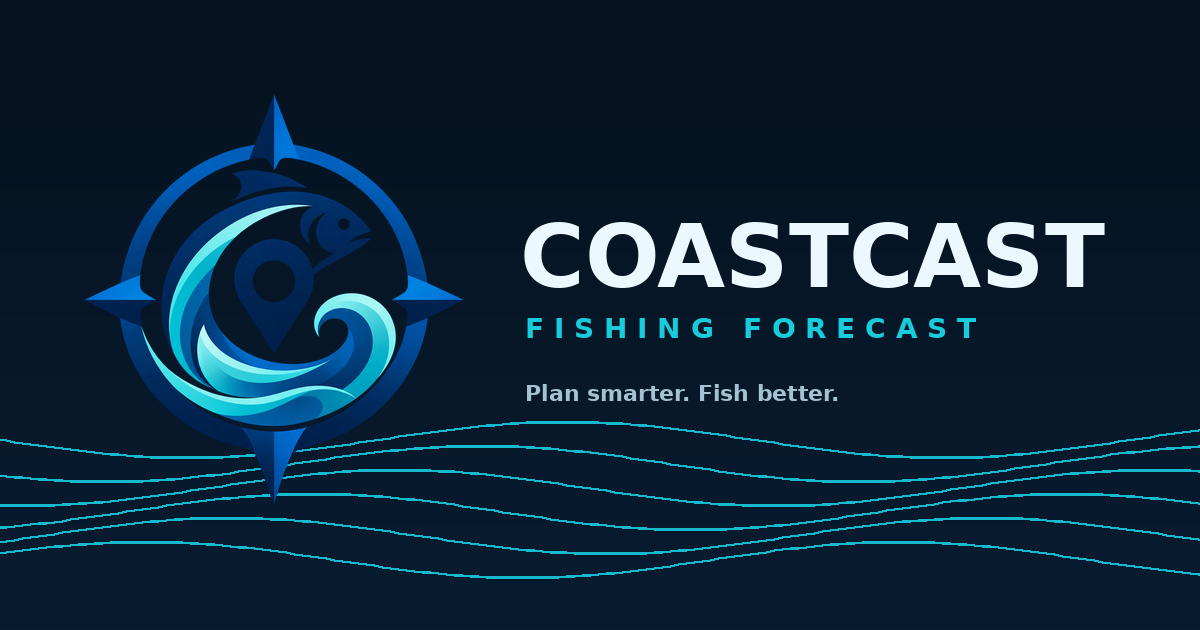
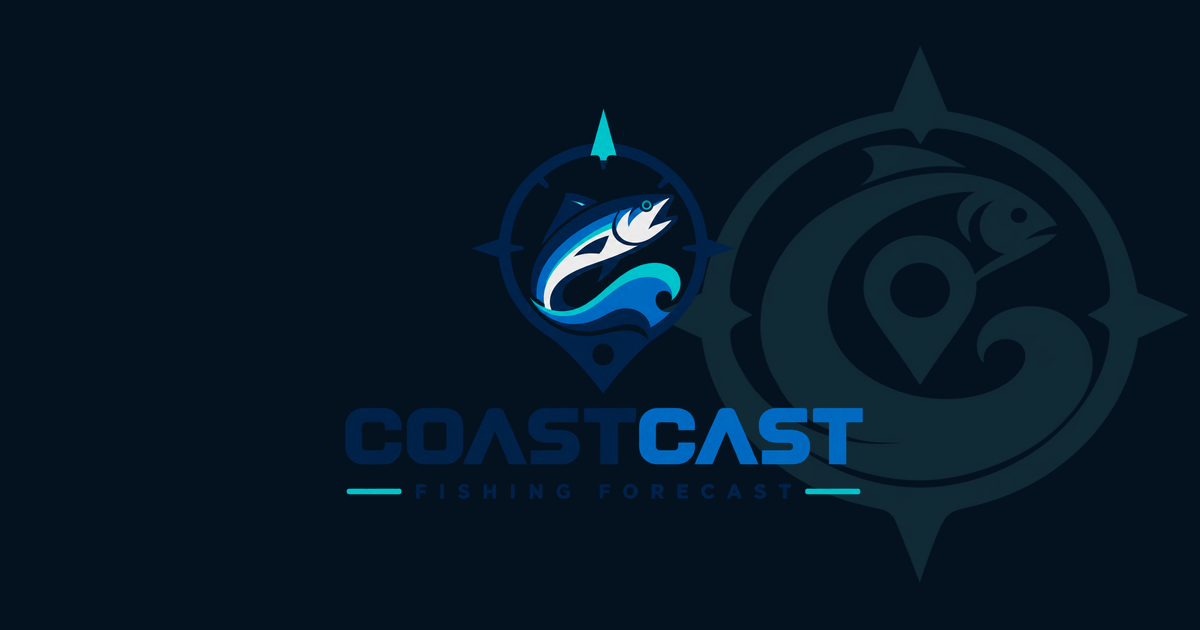
Add files via upload

diff --git a/app.js b/app.js
@@ -261,7 +261,7 @@
 
     restore(){
       try{
-        const raw=localStorage.getItem('coastcast-v21-state')||localStorage.getItem('coastcast-v20-state')||localStorage.getItem('coastcast-v18-state')||localStorage.getItem('coastcast-v17-state')||localStorage.getItem('coastcast-v16-state')||localStorage.getItem('coastcast-v15-state')||localStorage.getItem('coastcast-v14-state')||localStorage.getItem('coastcast-v13-state')||localStorage.getItem('coastcast-v12-state')||localStorage.getItem('coastcast-v11-state')||localStorage.getItem('coastcast-v10-state')||localStorage.getItem('coastcast-v9-state')||localStorage.getItem('coastcast-v8-state')||localStorage.getItem('coastcast-v7-state')||localStorage.getItem('coastcast-v6-state')||localStorage.getItem('coastcast-v5-state')||localStorage.getItem('coastcast-v4-state')||localStorage.getItem('coastcast-v3-state')||localStorage.getItem('coastcast-state-v1');
+        const raw=localStorage.getItem('coastcast-v22-state')||localStorage.getItem('coastcast-v21-state')||localStorage.getItem('coastcast-v20-state')||localStorage.getItem('coastcast-v18-state')||localStorage.getItem('coastcast-v17-state')||localStorage.getItem('coastcast-v16-state')||localStorage.getItem('coastcast-v15-state')||localStorage.getItem('coastcast-v14-state')||localStorage.getItem('coastcast-v13-state')||localStorage.getItem('coastcast-v12-state')||localStorage.getItem('coastcast-v11-state')||localStorage.getItem('coastcast-v10-state')||localStorage.getItem('coastcast-v9-state')||localStorage.getItem('coastcast-v8-state')||localStorage.getItem('coastcast-v7-state')||localStorage.getItem('coastcast-v6-state')||localStorage.getItem('coastcast-v5-state')||localStorage.getItem('coastcast-v4-state')||localStorage.getItem('coastcast-v3-state')||localStorage.getItem('coastcast-state-v1');
         if(!raw) return;
         const saved=JSON.parse(raw);
         if(saved.location) this.state.location=saved.location;
@@ -311,7 +311,7 @@
         community:this.state.community,
         command:this.state.command,liveUpdatedAt:this.state.liveUpdatedAt
       };
-      try{ localStorage.setItem('coastcast-v21-state',JSON.stringify(payload)); }catch(_){ }
+      try{ localStorage.setItem('coastcast-v22-state',JSON.stringify(payload)); }catch(_){ }
       if(this.state.cloud?.autoSync&&this.cloudSignedIn()) this.queueCloudSync();
     },
 
@@ -340,6 +340,8 @@
       this.$('profileBtn')?.addEventListener('click',()=>this.navigate('profile'));
       this.$('destinationScanBtn')?.addEventListener('click',()=>{this.navigate('map');setTimeout(()=>this.loadMapPlaces(true),180);});
       this.$('destinationTackleBtn')?.addEventListener('click',()=>{this.navigate('map');setTimeout(()=>this.loadNearbyShops(true),180);});
+      this.$('dailyBriefForecastBtn')?.addEventListener('click',()=>this.navigate('forecast'));
+      this.$('dailyBriefTripBtn')?.addEventListener('click',()=>this.buildCommandPlan({navigateToTrips:true}));
       this.$('syncBtn').addEventListener('click',()=>this.state.live?this.loadLiveData():this.showToast('Turn on Live Data to refresh internet forecasts.'));
       this.$('liveModeBtn').addEventListener('click',()=>{const s=this.overallDataStatus();if(this.state.live&&s!=='live')this.loadLiveData();else this.setLiveMode(!this.state.live);});
       this.$('liveModeToggle').addEventListener('change',e=>this.setLiveMode(e.target.checked));
@@ -1233,10 +1235,32 @@
 
     renderAll(){
       this.recalculateScores();
-      this.renderMode();this.renderSourceHealth();this.renderLocation();this.renderDestinationHub();this.renderScore();this.renderSpecies();this.renderSpeciesRankings();this.renderBaitIntelligence();this.renderRegulations();this.renderConditions();this.renderFactors();this.renderOceanIntelligence();this.renderBeachReadiness();
+      this.renderMode();this.renderSourceHealth();this.renderLocation();this.renderDestinationHub();this.renderDailyBrief();this.renderScore();this.renderSpecies();this.renderSpeciesRankings();this.renderBaitIntelligence();this.renderRegulations();this.renderConditions();this.renderFactors();this.renderOceanIntelligence();this.renderBeachReadiness();
       this.renderTides();this.renderHourly();this.renderDays();this.renderShops();this.renderForecast();this.renderCatchTimeline();this.renderTideWeek();this.renderChecklist();this.renderWaypoints();this.renderLogbook();this.renderCommunity();this.renderSpotIntelligence();
       this.evaluateAlerts({notify:true});this.renderTrips();this.renderSmartDeparture();this.renderHomeAlerts();this.renderProfile();this.renderScout();this.renderGoMode();this.renderGearPlanner();this.renderTripSafety();this.renderPatternMatch();this.renderCatchIntelligence();this.renderTackleBox();this.renderOfflinePacks();this.renderPhotoMemories();this.renderCommandCenter();this.renderOpportunityMatrix();this.renderMissionControl();this.renderAnglerAnalytics();
       if(this.state.view==='map') this.renderMapLayers();
+    },
+
+    dailyBriefData(){
+      const d=this.state.data||{},c=d.current||{},today=(d.hours||[]).filter(h=>Number(h.dateIndex||0)===0);
+      let localHour=new Date().getHours();try{const tz=d.timezone;if(tz){const x=new Intl.DateTimeFormat('en-US',{timeZone:tz,hour:'2-digit',hour12:false}).format(new Date());localHour=Number(x)%24;}}catch(_){ }
+      const hourOf=h=>{const m=String(h.rawTime||'').match(/T(\d{2}):/);if(m)return Number(m[1]);const m2=String(h.time||'').match(/^(\d{1,2})(?::\d{2})?\s*(AM|PM)?/i);if(!m2)return-1;let n=Number(m2[1]);if(m2[2]){const ap=m2[2].toUpperCase();if(ap==='PM'&&n<12)n+=12;if(ap==='AM'&&n===12)n=0;}return n;};
+      let upcoming=today.filter(h=>hourOf(h)>=localHour).slice(0,6);if(upcoming.length<3)upcoming=today.slice(0,6);if(!upcoming.length)upcoming=(d.hours||[]).slice(0,6);
+      const scored=upcoming.map(h=>({...h,briefScore:this.calculateScore({wind:h.wind,rain:h.rain,wave:h.wave,water:h.water??c.waterTemp,tide:h.tide,time:h.rawTime||h.time,pressure:h.pressure??c.pressure},this.state.targetSpecies)}));
+      const best=scored.reduce((a,b)=>!a||b.briefScore>a.briefScore?b:a,null),tide=this.tideIntel(),conf=this.dataConfidence(),sun=d.sun||d.days?.[0]||{};
+      let headline='A workable fishing window is developing.';if(best?.briefScore>=90)headline=`Prime ${this.state.targetSpecies} conditions build around ${best.time}.`;else if(best?.briefScore>=82)headline=`Strong ${this.state.targetSpecies} window near ${best.time}.`;else if(best?.briefScore>=70)headline=`Best available ${this.state.targetSpecies} opportunity is near ${best.time}.`;else headline='Conditions are mixed — use the timeline to pick the least-compromised window.';
+      const tideCall=tide.next?`${tide.stage} toward ${tide.next.type.toLowerCase()} water`:(tide.stage||'Tide trend loading');
+      const summary=`${tideCall}. Wind ${this.fmt(c.windSpeed,0)} mph ${this.compass(c.windDir)}, surf ${this.fmt(c.waveHeight,1)} ft @ ${this.fmt(c.wavePeriod,0)} sec, ${this.fmt(c.rain,0)}% rain. ${conf.score}% data confidence.`;
+      return{scored,best,tide,conf,sun,c,headline,summary};
+    },
+
+    renderDailyBrief(){
+      if(!this.$('dailyBriefPanel')||!this.state.data)return;const b=this.dailyBriefData(),best=b.best||{},live=this.overallDataStatus?.()||'demo';
+      this.$('dailyBriefHeadline').textContent=b.headline;this.$('dailyBriefSummary').textContent=b.summary;
+      const badge=this.$('dailyBriefBadge');badge.textContent=live==='live'?'LIVE BRIEF':live==='partial'?'PARTIAL LIVE':this.state.live?'FALLBACK':'DEMO';badge.className=`daily-brief-badge ${live==='live'?'live':live==='partial'?'partial':'demo'}`;
+      this.$('dailyBriefTimeline').innerHTML=b.scored.length?b.scored.map(h=>{const score=Math.round(h.briefScore||0),cls=score>=88?'prime':score>=76?'good':score>=62?'fair':'low';return `<article class="brief-hour ${cls}"><span>${this.escape(h.time||'—')}</span><strong>${score}</strong><small>${this.escape(h.icon||'')} ${this.fmt(h.temp,0)}° • ${this.fmt(h.wind,0)} mph</small><em>${this.fmt(h.wave,1)} ft surf</em></article>`;}).join(''):'<div class="brief-empty">Hourly forecast is not loaded yet.</div>';
+      const next=b.tide?.next;this.$('dailyBriefTide').textContent=next?`${next.type} ${next.time||this.formatDestinationDate(next.date,{hour:'numeric',minute:'2-digit'})}`:(b.tide?.stage||'—');this.$('dailyBriefTideNote').textContent=b.tide?.strength||'Movement';
+      this.$('dailyBriefWater').textContent=Number.isFinite(Number(b.c.waterTemp))?`${this.fmt(b.c.waterTemp,0)}°F`:'—';this.$('dailyBriefSunrise').textContent=b.sun.sunrise||'—';this.$('dailyBriefSunset').textContent=`Sunset ${b.sun.sunset||'—'}`;this.$('dailyBriefConfidence').textContent=`${b.conf.score}%`;
     },
 
     dataConfidence(){
@@ -2655,7 +2679,7 @@
     },
 
     backupPayload(){
-      return {format:'coastcast-backup',version:'2.1.0',exportedAt:new Date().toISOString(),appState:{location:this.state.location,live:this.state.live,radius:this.state.radius,tackleRadius:this.state.tackleRadius,fishingStyle:this.state.fishingStyle,targetSpecies:this.state.targetSpecies,waypoints:this.state.waypoints,catches:this.state.catches,trips:this.state.trips,savedTripPlans:this.state.savedTripPlans,alertRules:this.state.alertRules,profile:this.state.profile,scout:this.state.scout,goMode:this.state.goMode,gearPlan:this.state.gearPlan,departure:this.state.departure,regChecks:this.state.regChecks,tackleBox:this.state.tackleBox,shoppingList:this.state.shoppingList,offlinePacks:this.state.offlinePacks,community:this.state.community,command:this.state.command,liveUpdatedAt:this.state.liveUpdatedAt}};
+      return {format:'coastcast-backup',version:'2.2.0',exportedAt:new Date().toISOString(),appState:{location:this.state.location,live:this.state.live,radius:this.state.radius,tackleRadius:this.state.tackleRadius,fishingStyle:this.state.fishingStyle,targetSpecies:this.state.targetSpecies,waypoints:this.state.waypoints,catches:this.state.catches,trips:this.state.trips,savedTripPlans:this.state.savedTripPlans,alertRules:this.state.alertRules,profile:this.state.profile,scout:this.state.scout,goMode:this.state.goMode,gearPlan:this.state.gearPlan,departure:this.state.departure,regChecks:this.state.regChecks,tackleBox:this.state.tackleBox,shoppingList:this.state.shoppingList,offlinePacks:this.state.offlinePacks,community:this.state.community,command:this.state.command,liveUpdatedAt:this.state.liveUpdatedAt}};
     },
 
     exportBackup(){

diff --git a/index.html b/index.html
@@ -4,7 +4,7 @@
   <meta charset="utf-8" />
   <meta name="viewport" content="width=device-width, initial-scale=1, viewport-fit=cover" />
   <meta name="theme-color" content="#0B1D2E" />
-  <meta name="description" content="CoastCast 2.1 is a nationwide coastal fishing command center with live weather, marine conditions, NOAA tides, species intelligence, opportunity planning, Scout, trips, tackle inventory, catch analytics, community and a private logbook." />
+  <meta name="description" content="CoastCast 2.2 is a nationwide coastal fishing command center with live weather, marine conditions, NOAA tides, species intelligence, opportunity planning, Scout, trips, tackle inventory, catch analytics, community and a private logbook." />
   <meta name="apple-mobile-web-app-capable" content="yes" />
   <meta name="apple-mobile-web-app-status-bar-style" content="black-translucent" />
   <link rel="manifest" href="manifest.webmanifest" />
@@ -15,17 +15,17 @@
   <meta property="og:description" content="Plan smarter fishing trips with tides, weather, wind, surf, species intelligence, catch cards and a privacy-first fishing community." />
   <meta property="og:image" content="og-image.png" />
   <link rel="stylesheet" href="https://unpkg.com/leaflet@1.9.4/dist/leaflet.css" integrity="sha256-p4NxAoJBhIIN+hmNHrzRCf9tD/miZyoHS5obTRR9BMY=" crossorigin="" />
-  <link rel="stylesheet" href="styles.css?v=2.1.0" />
-  <title>CoastCast 2.1</title>
+  <link rel="stylesheet" href="styles.css?v=2.2.0" />
+  <title>CoastCast 2.2</title>
 </head>
 <body>
   <div id="app" class="app-shell">
     <header class="topbar">
-      <div class="brand-lockup brand-lockup-v21" aria-label="CoastCast Fishing Forecast">
-        <img class="brand-emblem-img" src="branding/coastcast-emblem.png" alt="" aria-hidden="true" />
+      <div class="brand-lockup brand-lockup-v22" aria-label="CoastCast Fishing Forecast">
+        <img class="brand-emblem-img" src="brand-emblem.png" alt="" aria-hidden="true" />
         <div class="brand-copy">
           <div class="brand-name"><span>COAST</span><b>CAST</b></div>
-          <div class="brand-kicker">FISHING FORECAST <span class="brand-version">2.1</span></div>
+          <div class="brand-kicker">FISHING FORECAST <span class="brand-version">2.2</span></div>
         </div>
       </div>
       <div class="topbar-actions">
@@ -93,6 +93,28 @@
             <button id="destinationTackleBtn" class="secondary-button" type="button">Find verified tackle</button>
           </div>
           <div id="destinationSourceLine" class="destination-source-line">Live data quality and place coverage will appear here.</div>
+        </section>
+
+        <section class="panel daily-brief-panel" id="dailyBriefPanel">
+          <div class="daily-brief-head">
+            <div>
+              <div class="eyebrow">COASTCAST DAILY BRIEF</div>
+              <h2 id="dailyBriefHeadline">Building today's fishing story…</h2>
+            </div>
+            <span id="dailyBriefBadge" class="daily-brief-badge">ANALYZING</span>
+          </div>
+          <p id="dailyBriefSummary" class="daily-brief-summary">Live tide, wind, surf, weather and species conditions will be condensed into one quick read.</p>
+          <div id="dailyBriefTimeline" class="daily-brief-timeline" aria-label="Upcoming fishing hours"></div>
+          <div class="daily-brief-metrics">
+            <article><span>NEXT TIDE</span><strong id="dailyBriefTide">—</strong><small id="dailyBriefTideNote">—</small></article>
+            <article><span>WATER</span><strong id="dailyBriefWater">—</strong><small>Sea temperature</small></article>
+            <article><span>SUNRISE</span><strong id="dailyBriefSunrise">—</strong><small id="dailyBriefSunset">Sunset —</small></article>
+            <article><span>CONFIDENCE</span><strong id="dailyBriefConfidence">—</strong><small>Loaded data quality</small></article>
+          </div>
+          <div class="daily-brief-actions">
+            <button id="dailyBriefForecastBtn" class="secondary-button" type="button">Open full forecast</button>
+            <button id="dailyBriefTripBtn" class="primary-button" type="button">Build this trip</button>
+          </div>
         </section>
 
         <section class="home-actions" aria-label="Quick actions">
@@ -1298,7 +1320,7 @@
       <div id="placesProviderStatus" class="settings-note">Open-data mode. CoastCast is using OpenStreetMap plus verified local catalogs.</div>
       <div class="settings-actions"><a class="secondary-button" href="https://myprojects.geoapify.com/" target="_blank" rel="noopener">Get free Places key</a><button id="testPlacesProviderBtn" class="primary-button" type="button">Refresh tackle shops</button></div>
       <div class="settings-note">The Places key is stored only on this device and is not written into your GitHub files or CoastCast backup. For a public app, restrict the key to your GitHub Pages origin in the provider dashboard.</div>
-      <div class="settings-note">CoastCast v2.0.2 is an active development build. No business database can guarantee 100% completeness, so CoastCast shows source provenance and prefers verified fishing-store categories over guesswork.</div>
+      <div class="settings-note">CoastCast v2.2 is an active development build. No business database can guarantee 100% completeness, so CoastCast shows source provenance and prefers verified fishing-store categories over guesswork.</div>
       <button id="resetAppBtn" class="danger-button full" type="button">Reset saved CoastCast data</button>
     </form>
   </dialog>
@@ -1325,6 +1347,6 @@
   <div id="toast" class="toast" role="status" aria-live="polite"></div>
 
   <script src="https://unpkg.com/leaflet@1.9.4/dist/leaflet.js" integrity="sha256-20nQCchB9co0qIjJZRGuk2/Z9VM+kNiyxNV1lvTlZBo=" crossorigin=""></script>
-  <script src="app.js?v=2.1.0"></script>
+  <script src="app.js?v=2.2.0"></script>
 </body>
 </html>

diff --git a/styles.css b/styles.css
@@ -339,7 +339,7 @@ body::before{
   inset:0;
   pointer-events:none;
   z-index:0;
-  background-image:url("branding/coastcast-watermark-ice.png");
+  background-image:url("brand-watermark.png");
   background-repeat:no-repeat;
   background-position:center 34%;
   background-size:min(78vw,680px);
@@ -386,7 +386,7 @@ body::before{
 }
 .destination-hub-panel::after{
   content:"";position:absolute;right:-66px;bottom:-82px;width:250px;height:250px;
-  background:url("branding/coastcast-emblem.png") center/contain no-repeat;
+  background:url("brand-emblem.png") center/contain no-repeat;
   opacity:.035;pointer-events:none;filter:saturate(.6);
 }
 .destination-hub-panel>*{position:relative;z-index:1}
@@ -411,7 +411,7 @@ body::before{
 .destination-source-line{font-size:9px;color:#7e9aa9;margin-top:9px;line-height:1.4}
 .location-hero{border-color:rgba(22,199,216,.17)}
 .score-hero{position:relative;overflow:hidden}
-.score-hero::after{content:"";position:absolute;right:-48px;bottom:-68px;width:190px;height:190px;background:url("branding/coastcast-watermark.png") center/contain no-repeat;opacity:.025;pointer-events:none}
+.score-hero::after{content:"";position:absolute;right:-48px;bottom:-68px;width:190px;height:190px;background:url("brand-watermark.png") center/contain no-repeat;opacity:.025;pointer-events:none}
 .score-hero>*{position:relative;z-index:1}
 .bottom-nav{background:rgba(4,18,30,.965)!important;border-top-color:rgba(79,217,231,.13)!important}
 .nav-button.active{color:#62e2ed!important}
@@ -427,3 +427,12 @@ body::before{
   .brand-name{font-size:18px}
   .destination-copy strong{font-size:21px}
 }
+
+
+/* === CoastCast 2.2 hardened rebrand + Daily Brief === */
+.brand-lockup-v22{gap:10px}.brand-lockup-v22 .brand-emblem-img{width:46px;height:46px;flex-basis:46px}
+.daily-brief-panel{position:relative;overflow:hidden;border-color:rgba(38,211,221,.22);background:linear-gradient(145deg,rgba(7,36,54,.97),rgba(5,25,39,.96))}
+.daily-brief-panel::before{content:"";position:absolute;right:-64px;top:-72px;width:210px;height:210px;background:url("brand-emblem.png") center/contain no-repeat;opacity:.035;filter:saturate(.7);pointer-events:none}
+.daily-brief-panel>*{position:relative;z-index:1}.daily-brief-head{display:flex;align-items:flex-start;justify-content:space-between;gap:12px}.daily-brief-head h2{margin:.2rem 0 0;font-size:1.15rem;line-height:1.15}.daily-brief-badge{white-space:nowrap;border-radius:999px;padding:6px 9px;font-size:.62rem;font-weight:900;letter-spacing:.08em;border:1px solid rgba(111,207,224,.17);color:#a8c6d5;background:rgba(255,255,255,.025)}.daily-brief-badge.live{color:#7ef0c9;border-color:rgba(89,224,192,.28);background:rgba(89,224,192,.09)}.daily-brief-badge.partial{color:#ffe0a2;border-color:rgba(255,190,92,.25);background:rgba(255,190,92,.08)}.daily-brief-summary{margin:9px 0 12px;color:#abc4d1;font-size:.82rem;line-height:1.5}.daily-brief-timeline{display:flex;gap:8px;overflow-x:auto;padding:2px 0 7px;scrollbar-width:none}.daily-brief-timeline::-webkit-scrollbar{display:none}.brief-hour{flex:0 0 104px;min-height:102px;border-radius:14px;padding:10px;border:1px solid rgba(130,205,222,.11);background:rgba(3,22,34,.66);display:flex;flex-direction:column;gap:4px}.brief-hour>span{font-size:.65rem;color:#87a8b8;font-weight:800}.brief-hour>strong{font-size:1.35rem;line-height:1;color:#f4fbff}.brief-hour>small{font-size:.63rem;color:#a8c4d1}.brief-hour>em{font-style:normal;font-size:.59rem;color:#6fd9e6;margin-top:auto}.brief-hour.prime{border-color:rgba(89,224,192,.34);box-shadow:inset 0 0 0 1px rgba(89,224,192,.04)}.brief-hour.prime>strong{color:#7ef0c9}.brief-hour.good>strong{color:#84e3f0}.brief-hour.fair>strong{color:#ffd18a}.brief-hour.low>strong{color:#ff9ea6}.brief-empty{padding:14px;color:#8aa6b5;font-size:.78rem}.daily-brief-metrics{display:grid;grid-template-columns:repeat(4,minmax(0,1fr));gap:1px;margin-top:6px;border:1px solid rgba(129,203,219,.09);background:rgba(129,203,219,.08);border-radius:13px;overflow:hidden}.daily-brief-metrics article{min-width:0;padding:9px;background:rgba(4,24,37,.72)}.daily-brief-metrics span{display:block;font-size:.55rem;color:#61dce9;font-weight:900;letter-spacing:.08em}.daily-brief-metrics strong{display:block;margin-top:4px;font-size:.8rem;white-space:nowrap;overflow:hidden;text-overflow:ellipsis}.daily-brief-metrics small{display:block;margin-top:2px;font-size:.58rem;color:#809dac;white-space:nowrap;overflow:hidden;text-overflow:ellipsis}.daily-brief-actions{display:grid;grid-template-columns:1fr 1.15fr;gap:8px;margin-top:11px}
+body::before{background-image:url("brand-watermark.png");background-size:min(76vw,620px);opacity:.022;filter:saturate(.8) contrast(.9)}
+@media(max-width:560px){.daily-brief-metrics{grid-template-columns:repeat(2,minmax(0,1fr))}.daily-brief-actions{grid-template-columns:1fr}.brand-lockup-v22 .brand-emblem-img{width:42px;height:42px;flex-basis:42px}}

diff --git a/sw.js b/sw.js
@@ -1,5 +1,5 @@
-const CACHE='coastcast-v2.1.0';
-const CORE=['./','./index.html','./styles.css?v=2.1.0','./app.js?v=2.1.0','./manifest.webmanifest','./icon-192.png','./icon-512.png','./apple-touch-icon.png','./favicon-32.png','./og-image.png','./branding/coastcast-emblem.png','./branding/coastcast-watermark-ice.png','./branding/coastcast-primary-logo.png'];
+const CACHE='coastcast-v2.2.0';
+const CORE=['./','./index.html','./styles.css?v=2.2.0','./app.js?v=2.2.0','./manifest.webmanifest','./icon-192.png','./icon-512.png','./apple-touch-icon.png','./favicon-32.png','./og-image.png','./brand-emblem.png','./brand-watermark.png','./brand-primary.png'];
 self.addEventListener('install',event=>{
   event.waitUntil(caches.open(CACHE).then(cache=>cache.addAll(CORE)).then(()=>self.skipWaiting()));
 });

diff --git a/WHAT_CHANGED.md b/WHAT_CHANGED.md
@@ -1,34 +1,15 @@
-# CoastCast 2.1 — Premium Rebrand + Destination Intelligence
+# CoastCast 2.2 — Hardened Rebrand + Daily Brief
 
-## Rebrand integration
-- New CoastCast compass/fish/wave emblem is now the primary in-app mark.
-- Rebuilt Android/PWA icons from the new emblem.
-- Added the new semi-transparent CoastCast watermark behind the app.
-- Refined the navy/aqua visual system, header, panels, navigation, buttons and score presentation.
-- Added new social/open-graph artwork.
-- Added a v2.1 brand guide and reusable brand assets.
+## Rebrand hardening
+- Official CoastCast emblem is now shipped at the app root so the header cannot break if GitHub drops the branding folder.
+- New app icons are generated from the approved emblem.
+- Root-level watermark asset now powers the faint background brand layer throughout the app.
+- Updated social preview and PWA icon assets.
 
-## New Destination Intelligence
-Home now includes a Destination Intelligence panel that combines:
-- coastal region
-- best current target species
-- species score
-- public fishing/access place count
-- public-access source status
-- verified/live tackle-shop count
-- water temperature
-- live-data confidence
+## New Daily Brief
+- One-screen summary of the next fishing hours.
+- Species-adjusted hourly scores.
+- Tide stage/next turn, water temperature, sunrise/sunset, and data confidence.
+- Direct actions into full Forecast or a complete Command Plan.
 
-The panel has direct actions to:
-- scan and rank nearby fishing spots
-- search verified tackle shops around the fishing destination
-
-## Data integrity
-- v2.0.2 tackle verification remains intact.
-- Unrelated businesses are still rejected from Bait/Tackle pins.
-- Dedicated tackle radius and optional Geoapify integration remain available.
-- Existing v2.0.x data migrates into v2.1.
-
-## Storage
-New local state key: `coastcast-v21-state`.
-Previous CoastCast state remains readable for migration.
+All v2.1 data migrates forward.

diff --git a/README_ANDROID.md b/README_ANDROID.md
@@ -1,4 +1,4 @@
-# CoastCast 2.1 — Android / GitHub Pages Update
+# CoastCast 2.2 — Android / GitHub Pages Update
 
 This is the Premium Rebrand + Destination Intelligence build.
 
@@ -6,7 +6,7 @@ This is the Premium Rebrand + Destination Intelligence build.
 1. Download the ZIP and extract it in My Files.
 2. Open your existing CoastCast GitHub repository.
 3. Choose **Add file → Upload files**.
-4. Upload everything inside the `coastcast_v2.1` folder.
+4. Upload everything inside the `coastcast_v2.2` folder.
 5. Replace matching files.
 6. Commit to `main`.
 7. Wait for GitHub Pages to redeploy.
@@ -23,3 +23,7 @@ This is the Premium Rebrand + Destination Intelligence build.
 
 ## Brand assets
 The `branding/` folder contains the new primary logo, emblem, watermark and brand guide.
+
+
+## 2.2 note
+The header emblem and background watermark now live at the repository root (`brand-emblem.png`, `brand-watermark.png`) for more reliable GitHub Pages deployment.

diff --git a/BRAND_GUIDE_V22.md b/BRAND_GUIDE_V22.md
@@ -1,0 +1,24 @@
+# CoastCast 2.2 Brand Guide
+
+## Primary identity
+- Emblem: compass + fish + wave + location cue.
+- Wordmark: COASTCAST / FISHING FORECAST.
+- Tone: premium marine utility, not cartoon fishing artwork.
+
+## Core palette
+- Deep Navy `#06182A`
+- Deep Surface `#04131F`
+- Ocean Blue `#0B3F6F`
+- Electric Blue `#1479E8`
+- Aqua `#16C7D8`
+- Seafoam `#59E0C0`
+- Ice `#DFF8FF`
+
+## Asset usage
+- `brand-emblem.png`: header/logo mark and branded panels.
+- `brand-primary.png`: full promotional lockup / store and social material.
+- `brand-watermark.png`: background only, displayed at roughly 2–4% opacity.
+- `icon-192.png` and `icon-512.png`: installed PWA/app icons.
+
+## Watermark rule
+Keep the watermark subtle. It should be felt before it is noticed and must never reduce forecast readability.

diff --git a/DATA_SOURCES.md b/DATA_SOURCES.md
@@ -1,6 +1,6 @@
-# CoastCast 2.1 Data Sources
+# CoastCast 2.2 Data Sources
 
-# CoastCast v2.0.2 Data Sources
+# CoastCast v2.2 Data Sources
 
 ## Forecast and marine
 - Open-Meteo weather forecast
@@ -15,7 +15,7 @@
 - CoastCast verified regional access catalogs where available
 
 ## Bait & tackle intelligence
-CoastCast v2.0.2 uses a multi-source merge:
+CoastCast v2.2 uses a multi-source merge:
 1. **Geoapify Places** (optional key) — dedicated `commercial.outdoor_and_sport.fishing` category.
 2. **OpenStreetMap / Overpass** — fishing-store tags plus fishing-specific names/descriptions/products.
 3. **Nominatim / Photon** — strict text discovery, never accepted solely because a geocoder returned a nearby business.
